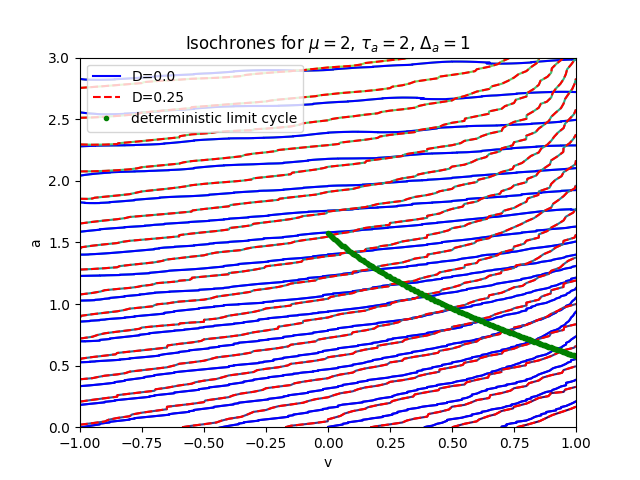
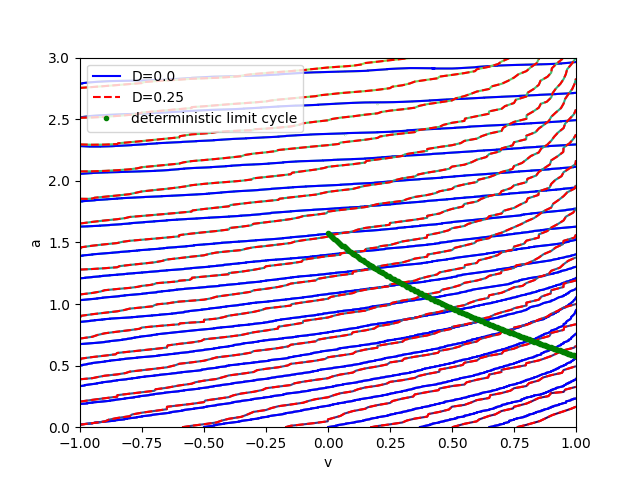
minor stuff

diff --git a/mrt_phase_pde/pde/own_method/check_isochrone_mrt/check_mrt.py b/mrt_phase_pde/pde/own_method/check_isochrone_mrt/check_mrt.py
@@ -10,10 +10,15 @@ from mrt_phase_pde.pde.own_method.T_bar import T_bar
 from mrt_phase_numeric.src.Isochrone.InitHelper import IsochroneInitHelper
 from mrt_phase_numeric.isochrones.get_isochrones.timeseries_config import \
         isochrone_config, init_config
-from mrt_phase_numeric.src.Curve.Curve import Curve
+from config import equation_config
 
+mu = equation_config['mu']
+v_th = equation_config['v_th']
+tau_a = equation_config['tau_a']
+delta_a = equation_config['delta_a']
 
-D = 0.25
+# dont forget to set D in timeseries_config
+D = .5
 
 mu = equation_config['mu']
 v_th = equation_config['v_th']
@@ -47,7 +52,7 @@ if __name__ == '__main__':
     stepsize = 0.1
     levels = np.arange(min_T, max_T, mean_T * stepsize)
 
-    mid_idx = int(len(levels)/2)
+    mid_idx = int(len(levels)/2) + 3
 
     level_2 = levels[mid_idx] + mean_T
     level_1 = levels[mid_idx]
@@ -82,7 +87,7 @@ if __name__ == '__main__':
         ax2.plot(all_curves[i][:, 0], rt, colorscheme[i] + 'x')
 
     v_ = np.linspace(-2, 1, 100)
-    ax2.plot(v_, [T_bar[D] for v in v_], 'g--', label='target return time')
+    ax2.plot(v_, [T_bar[D] for v in v_], 'g--', label='$\\bar{T}$')
 
     ax1.set_xlim([-1, 1])
     ax1.set_ylim([0, 4])
@@ -92,10 +97,13 @@ if __name__ == '__main__':
     ax2.set_xlim([-1, 1])
     ax2.set_ylim([0, 3])
     ax2.set_xlabel('v')
-    ax2.set_ylabel('t')
+    ax2.set_ylabel('mean return time t')
 
-    plt.legend()
+    ax1.set_title(f'$D={D}$, $\mu={mu}$, $\\tau_a={tau_a}$, $\Delta_a={delta_a}$')
+
+    ax1.legend()
+    ax2.legend()
 
     fig.tight_layout()
 
-    plt.savefig(f'check_mrt_D_{D}.png')
+    plt.savefig(f'img\\check_mrt_D_{D}_{mid_idx}.png')

diff --git a/mrt_phase_pde/pde/own_method/extract_curves_from_T_N/plot_curves_from_T_N.py b/mrt_phase_pde/pde/own_method/extract_curves_from_T_N/plot_curves_from_T_N.py
@@ -9,7 +9,6 @@ from mrt_phase_numeric.src.util.save_util import read_curve_from_file
 from mrt_phase_pde.pde.own_method.extract_curves_from_T_N.extract_curves import get_curve_for_T_N
 from config import equation_config
 
-
 mu = equation_config['mu']
 v_th = equation_config['v_th']
 tau_a = equation_config['tau_a']
@@ -42,7 +41,7 @@ def plot_T_N(D):
     plt.ylabel('a')
     plt.ylim([0, 3])
     plt.xlim([-1, 1])
-    plt.title(f'$D={D}$, $\mu={mu}$, $\\tau_a={tau_a}$, $\Delta_a={delta_a}$')
+    plt.title(f'$D={D}$')  # , $\mu={mu}$, $\\tau_a={tau_a}$, $\Delta_a={delta_a}$')
     plt.plot(limit_cycle[:, 0], limit_cycle[:, 1], 'g.', label='deterministic limit cycle')
     plt.legend()
 
@@ -64,7 +63,7 @@ def plot_T_N(D):
     plt.legend(by_label.values(), by_label.keys())
     # plt.xlim([-1,1])
 
-    plt.show()
+    # plt.show()
 
 
 if __name__ == '__main__':

diff --git a/mrt_phase_numeric/isochrones/get_isochrones/timeseries_config.py b/mrt_phase_numeric/isochrones/get_isochrones/timeseries_config.py
@@ -5,11 +5,10 @@ from mrt_phase_numeric.src.DataTypes.DataTypes import (
     DataTypes, InitTypes)
 from mrt_phase_numeric.definitions import ROOT_DIR
 
-D = 1.0
+D = .5
 mean_T = equation_config['mean_T_dict'][D]
 
 data_path = f'{ROOT_DIR}\\data\\input\\timeseries\\D_{D}'
-
 files = os.listdir(data_path)
 data_filename = os.path.join(data_path, files[0])
 
@@ -19,7 +18,7 @@ isochrone_config = {
     'a_range': 0.015,
     'target_rt': mean_T,
     'update_jump': 0.2,
-    'max_n_trajectories': 5000,
+    'max_n_trajectories': 3000,
     'early_stopping_n_updates': 10,
     'smooth_curve': False,
     'data_filename': data_filename,

diff --git a/mrt_phase_pde/pde/own_method/extract_curves_from_T_N/compare_two_curves.py b/mrt_phase_pde/pde/own_method/extract_curves_from_T_N/compare_two_curves.py
@@ -39,12 +39,12 @@ def plot_multiple_curves(D_list):
     plt.xlabel('v')
     plt.ylabel('a')
     plt.ylim([0, 3])
-    plt.title(f'Isochrones for $\mu={mu}$, $\\tau_a={tau_a}$, $\Delta_a={delta_a}$')
+    # plt.title(f'Isochrones for $\mu={mu}$, $\\tau_a={tau_a}$, $\Delta_a={delta_a}$')
     # plt.title(f'$D={D}$, ')
     plt.legend()
     plt.savefig(f'img\\isochrones_comparison_D_{D_list}.png')
 
-    plt.show()
+    # plt.show()
 
 
 if __name__ == '__main__':

diff --git a/mrt_phase_pde/pde/own_method/extract_curves_from_T_N/extract_curves.py b/mrt_phase_pde/pde/own_method/extract_curves_from_T_N/extract_curves.py
@@ -46,7 +46,8 @@ def get_levels(T_N: T_N, D: float, type=None):
             level_1 = level - T_bar[D]
 
             levels.append(level)
-            levels.append(level_2)
+            if level_2 < np.max(T_N.T):
+                levels.append(level_2)
             if level_1 > np.min(T_N.T):
                 levels.append(level_1)
 
